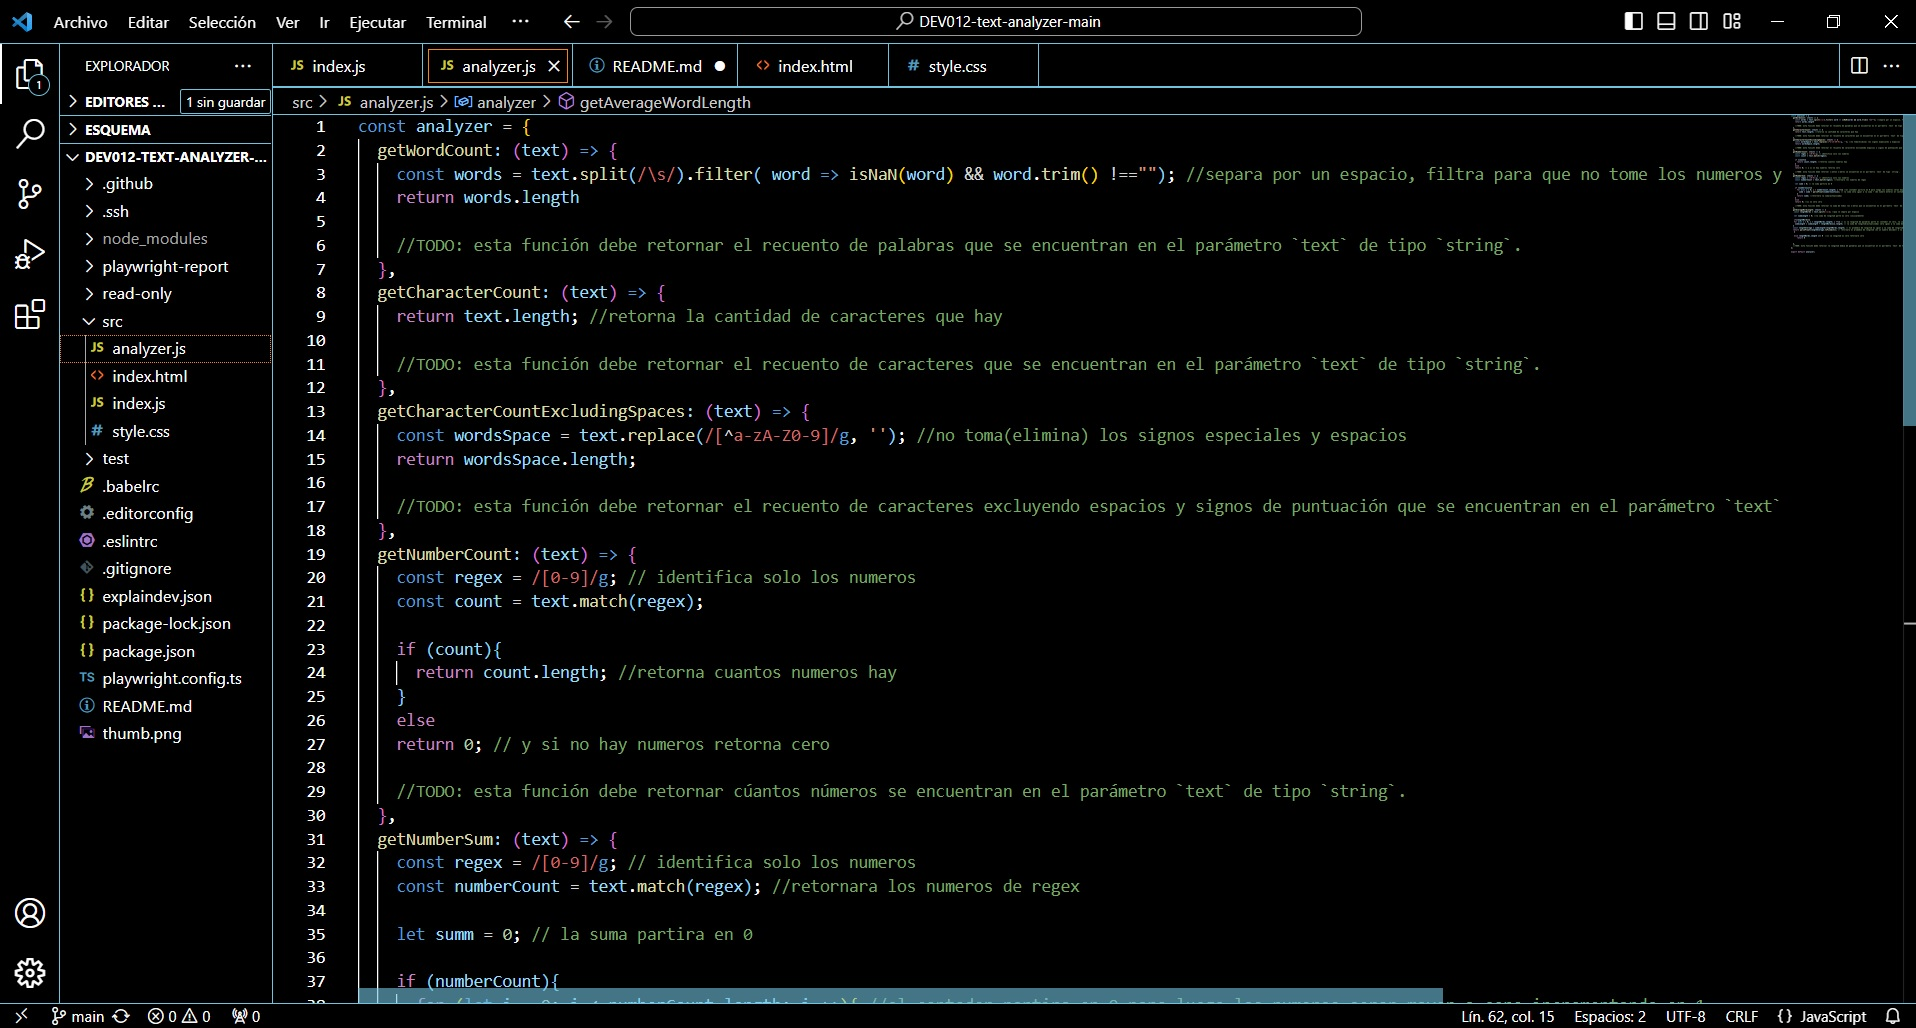
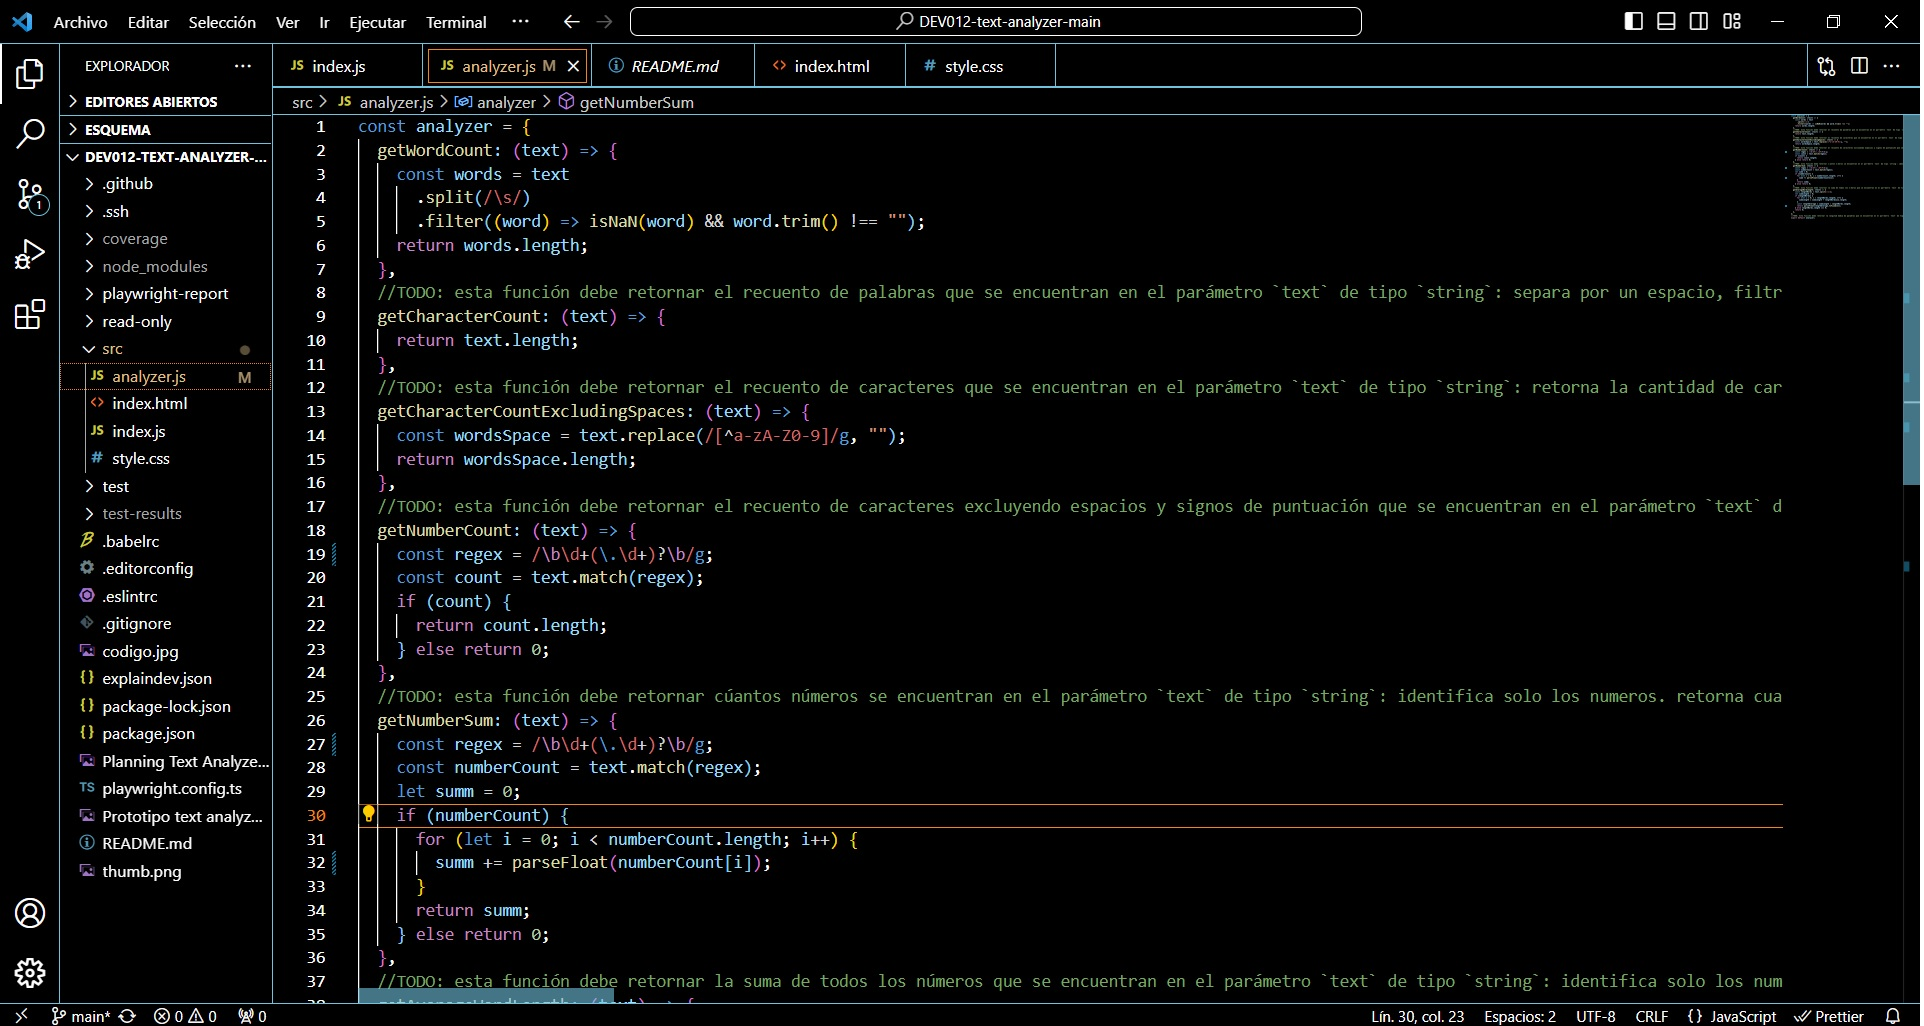
Ultimo commit

diff --git a/src/analyzer.js b/src/analyzer.js
@@ -16,7 +16,7 @@ const analyzer = {
   },
   //TODO: esta función debe retornar el recuento de caracteres excluyendo espacios y signos de puntuación que se encuentran en el parámetro `text` de tipo `string`: no toma(elimina) los signos especiales y espacios
   getNumberCount: (text) => {
-    const regex = /[0-9]/g;
+    const regex = /\b\d+(\.\d+)?\b/g;
     const count = text.match(regex);
     if (count) {
       return count.length;
@@ -24,12 +24,12 @@ const analyzer = {
   },
   //TODO: esta función debe retornar cúantos números se encuentran en el parámetro `text` de tipo `string`: identifica solo los numeros. retorna cuantos numeros hay. y si no hay numeros retorna cero
   getNumberSum: (text) => {
-    const regex = /[0-9]/g;
+    const regex = /\b\d+(\.\d+)?\b/g;
     const numberCount = text.match(regex);
     let summ = 0;
     if (numberCount) {
       for (let i = 0; i < numberCount.length; i++) {
-        summ = summ + parseFloat(numberCount[i]);
+        summ += parseFloat(numberCount[i]);
       }
       return summ;
     } else return 0;
@@ -43,7 +43,7 @@ const analyzer = {
         summLength = summLength + lengthWords[i].length;
       }
       const lengthAverage = summLength / lengthWords.length;
-      return parseFloat(lengthAverage.toFixed(3));
+      return parseFloat(lengthAverage.toFixed(2));
     } else lengthWords.length === 0;
     return 0;
   },

diff --git a/README.md b/README.md
@@ -8,11 +8,6 @@
 * [4. Funcionalidades](#4-funcionalidades)
 * [5. Boilerplate](#5-boilerplate)
 * [6. Criterios de aceptación mínimos del proyecto](#6-criterios-de-aceptación-mínimos-del-proyecto)
-* [7. Pruebas](#7-pruebas)
-* [8. Pistas, tips y lecturas complementarias](#8-pistas-tips-y-lecturas-complementarias)
-* [9. Consideraciones para pedir tu Project Feedback](#9-consideraciones-para-pedir-tu-project-feedback)
-* [10. Objetivos de aprendizaje](#10-objetivos-de-aprendizaje)
-* [11. Funcionalidades opcionales](#11-funcionalidades-opcionales)
 
 ***
 
@@ -437,328 +432,6 @@ usuarias en el centro**
   [diseño visual](https://coda.io/d/Bootcamp-UX-Contenido_dqkqk2rV9Z2/Reglas-basicas-de-diseno-visual_suVcO)
   para diseñar la UI (interfáz gráfica)
 
-## 7. Pruebas
-
-Este proyecto cuenta con 3 conjuntos de pruebas que te ayudarán a conocer si
-cumples los criterios mínimos de aceptación.
-
-### Pruebas unitarias
-
-Una prueba unitaria es una técnica de prueba de software en la que se comprueba
-que cada componente individual de un programa o sistema funciona correctamente
-de manera aislada. En otras palabras, se prueba cada unidad de código por
-separado para asegurarse de que cumpla con los requisitos y especificaciones.
-
-Las pruebas unitarias de este proyecto ejecutarán los métodos `getWordCount`,
-`getCharacterCount`, `getCharacterCountExcludingSpaces`, `getNumbersCount`,
-`getNumbersSum` y `getAverageWordLength` con diferentes argumentos y se
-confirmará que los valores retornados sean los esperados.
-
-Puedes ejecutar estas pruebas con el comando `npm run test` como se muestra
-en la siguiente imagen:
-
-![npm run test](https://github-production-user-asset-6210df.s3.amazonaws.com/12631491/240650584-c8267968-d631-4fbb-b05f-458a970544b7.gif "npm run test")
-
-El _boilerplate_ incluye tareas que ejecutan [eslint](https://eslint.org/) y
-[htmlhint](https://github.com/yaniswang/HTMLHint) para verificar el `HTML` y
-`JavaScript` con respecto a una guías de estilos. Ambas tareas se ejecutan
-automáticamente antes de ejecutar las pruebas unitarias cuando usamos el comando
-`npm run test`. En el caso de `JavaScript` estamos usando un archivo de
-configuración de `eslint` que se llama `.eslintrc` que contiene un mínimo de
-información sobre el parser que usar (qué version de JavaScript/ECMAScript), el
-entorno (browser en este caso) y
-las [reglas recomendadas (`eslint:recommended`)](https://eslint.org/docs/rules/).
-En cuanto a reglas/guías de estilo en sí,
-usaremos las recomendaciones _por defecto_ de tanto `eslint` como `htmlhint`.
-
-### Pruebas de criterios mínimos de aceptación
-
-Estas pruebas analizarán tus archivos
-[`index.html`](src/index.html),
-[`index.js`](src/index.html),
-[`analyzer.js`](src/analyzer.js)
-y
-[`style.css`](src/style.css)
-para verificar que cumples con los
-[criterios minimos de aceptacion](#5-objetivos-de-aprendizaje-y-criterios-de-aceptación-mínimos-del-proyecto).
-Cada criterio esta relacionado con un objetivo de aprendizaje.
-
-Puedes ejecutar todas estas pruebas con el comando `npm run test:oas`
-como se muestra en la siguiente imagen:
-
-![npm run test oas](https://github-production-user-asset-6210df.s3.amazonaws.com/12631491/240650602-f0ca9170-7563-4edc-9e78-874fa012c4fd.gif "npm run test oas")
-
-Puedes ejecutar las pruebas de cada grupo de objetivos de aprendizaje de
-manera individual con los siguientes comandos:
-
-* `npm run test:oas-html`
-* `npm run test:oas-css`
-* `npm run test:oas-web-api`
-* `npm run test:oas-js`
-
-#### Pruebas end-to-end
-
-Una prueba end-to-end (E2E) es una técnica de prueba de software en la que
-se verifica el funcionamiento de todo el sistema desde el inicio hasta el
-final. En otras palabras, se prueba el flujo completo del software, simulando
-la interacción de la usuaria con la aplicación, para asegurarse de que todas
-las partes del sistema funcionan correctamente en conjunto.
-
-Puedes ejecutar estas pruebas con el comando `npm run test:e2e` como se muestra
-en la siguiente imagen:
-
-![npm run test e2e](https://github-production-user-asset-6210df.s3.amazonaws.com/12631491/240650622-a4da630e-8d39-4dd8-9fde-1a38c31a53e2.gif "npm run test e2e")
-
-### Github actions
-
-Este repositorio usa una GitHub Action para ejecutar automáticamente
-las pruebas unitarias, pruebas de criterios mínimos de aceptación y
-y pruebas end-to-end cada vez que se hagas un _push_ en la rama
-_main_ de tu repositorio.
-
-Puedes consultar el resultado de esta Github Action
-en la pestaña _Actions_ de tu repositorio en Github
-como se muestra en la siguiente imagen:
-
-![Github Action](https://github-production-user-asset-6210df.s3.amazonaws.com/12631491/240650640-a8a8ed26-6f48-4053-8b3b-7dec7e35a9f8.gif "Github Action")
-
-## 8. Pistas, tips y lecturas complementarias
-
-### Prepara tu PC para trabajar
-
-Antes de comenzar instala lo siguiente:
-
-1. [Node.js](https://nodejs.org/)
-2. [git](https://git-scm.com/download/) Si estas en Linux es muy probable que
-  ya este instalado 👀.
-  Para conocer más de git visita
-  [este enlace](https://curriculum.laboratoria.la/es/topics/scm/01-git)
-3. Un editor de código, te sugerimos [Code](https://code.visualstudio.com/)
-
-Después en [GitHub](https://github.com/):
-
-1. Crear una cuenta. Conoce más de GitHub en este
-  [link](https://curriculum.laboratoria.la/es/topics/scm/02-github/01-github)
-2. Realiza un fork de este proyecto
-3. Configura tu SSH Key  en GitHub. Puedes revisar este
-[video](https://www.youtube.com/watch?v=g0ZV-neSM7E) o
-[artículo](https://docs.github.com/es/authentication/connecting-to-github-with-ssh/generating-a-new-ssh-key-and-adding-it-to-the-ssh-agent)
-
-Luego en una [shell](https://curriculum.laboratoria.la/es/topics/shell)
-ejecuta lo siguiente. Si estas en Windows puedes usar Git Bash:
-
-1. Clona el fork en tu PC
-2. Ubica la shell en el proyecto que clonaste
-3. Instala las dependencias del proyecto con `npm install`
-4. Instala `playwright` con `npx playwright install chromium --with-deps`
-5. Para arrancar el servidor web `npm start` y dirígete a
-   `http://localhost:3000` en tu navegador.
-6. A codear se ha dicho! :rocket:
-
-### Recursos y temas relacionados
-
-Súmate al canal de Slack [#project-text-analyzer](https://claseslaboratoria.slack.com/archives/C058GP6K9NY)
-
-## 9. Consideraciones para pedir tu Project Feedback
-
-Antes de agendar tu Project Feedback con un coach, asegúrate que tu proyecto:
-
-* [ ] Cumple con todos los criterios mínimos de aceptación al ejecutar `npm run test:oas`
-* [ ] Cumple con todas las pruebas unitarias al ejecutar `npm run test`
-* [ ] Cumple con todas las pruebas _end to end_ al ejecutar `npm run test:e2e`
-* [ ] Esta libre de _errores_ de `eslint` al ejecutar `npm run test`
-* [ ] Está subido a GitHub.
-* [ ] Esta desplegado en GitHub Pages.
-* [ ] Tiene un README con la definición del producto.
-
-Recuerda que debes hacer una autoevaluación de _objetivos de aprendizaje_ y
-_life skills_ desde tu dashboard de estudiante.
-
-Si no has completado todo lo anterior, no consideramos que estás lista para
-tu sesión de Project Feedback.
-
-## 10. Objetivos de aprendizaje
-
-
-Reflexiona y luego marca los objetivos que has llegado a entender y aplicar en tu proyecto. Piensa en eso al decidir tu estrategia de trabajo.
-
-### HTML
-
-- [ ] **Uso de HTML semántico**
-
-  <details><summary>Links</summary><p>
-
-  * [HTML semántico](https://curriculum.laboratoria.la/es/topics/html/02-html5/02-semantic-html)
-  * [Semantics - MDN Web Docs Glossary](https://developer.mozilla.org/en-US/docs/Glossary/Semantics#Semantics_in_HTML)
-</p></details>
-
-### CSS
-
-- [ ] **Uso de selectores de CSS**
-
-  <details><summary>Links</summary><p>
-
-  * [Intro a CSS](https://curriculum.laboratoria.la/es/topics/css/01-css/01-intro-css)
-  * [CSS Selectors - MDN](https://developer.mozilla.org/es/docs/Web/CSS/CSS_Selectors)
-</p></details>
-
-- [ ] **Modelo de caja (box model): borde, margen, padding**
-
-  <details><summary>Links</summary><p>
-
-  * [Box Model & Display](https://curriculum.laboratoria.la/es/topics/css/01-css/02-boxmodel-and-display)
-  * [The box model - MDN](https://developer.mozilla.org/en-US/docs/Learn/CSS/Building_blocks/The_box_model)
-  * [Introduction to the CSS box model - MDN](https://developer.mozilla.org/en-US/docs/Web/CSS/CSS_Box_Model/Introduction_to_the_CSS_box_model)
-  * [CSS display - MDN](https://developer.mozilla.org/pt-BR/docs/Web/CSS/display)
-  * [display - CSS Tricks](https://css-tricks.com/almanac/properties/d/display/)
-</p></details>
-
-### Web APIs
-
-- [ ] **Uso de selectores del DOM**
-
-  <details><summary>Links</summary><p>
-
-  * [Manipulación del DOM](https://curriculum.laboratoria.la/es/topics/browser/02-dom/03-1-dom-methods-selection)
-  * [Introducción al DOM - MDN](https://developer.mozilla.org/es/docs/Web/API/Document_Object_Model/Introduction)
-  * [Localizando elementos DOM usando selectores - MDN](https://developer.mozilla.org/es/docs/Web/API/Document_object_model/Locating_DOM_elements_using_selectors)
-</p></details>
-
-- [ ] **Manejo de eventos del DOM (listeners, propagación, delegación)**
-
-  <details><summary>Links</summary><p>
-
-  * [Introducción a eventos - MDN](https://developer.mozilla.org/es/docs/Learn/JavaScript/Building_blocks/Events)
-  * [EventTarget.addEventListener() - MDN](https://developer.mozilla.org/es/docs/Web/API/EventTarget/addEventListener)
-  * [EventTarget.removeEventListener() - MDN](https://developer.mozilla.org/es/docs/Web/API/EventTarget/removeEventListener)
-  * [El objeto Event](https://developer.mozilla.org/es/docs/Web/API/Event)
-</p></details>
-
-- [ ] **Manipulación dinámica del DOM**
-
-  <details><summary>Links</summary><p>
-
-  * [Introducción al DOM](https://developer.mozilla.org/es/docs/Web/API/Document_Object_Model/Introduction)
-  * [Node.appendChild() - MDN](https://developer.mozilla.org/es/docs/Web/API/Node/appendChild)
-  * [Document.createElement() - MDN](https://developer.mozilla.org/es/docs/Web/API/Document/createElement)
-  * [Document.createTextNode()](https://developer.mozilla.org/es/docs/Web/API/Document/createTextNode)
-  * [Element.innerHTML - MDN](https://developer.mozilla.org/es/docs/Web/API/Element/innerHTML)
-  * [Node.textContent - MDN](https://developer.mozilla.org/es/docs/Web/API/Node/textContent)
-</p></details>
-
-### JavaScript
-
-- [ ] **Tipos de datos primitivos**
-
-  <details><summary>Links</summary><p>
-
-  * [Valores primitivos - MDN](https://developer.mozilla.org/es/docs/Web/JavaScript/Data_structures#valores_primitivos)
-</p></details>
-
-- [ ] **Strings (cadenas de caracteres)**
-
-  <details><summary>Links</summary><p>
-
-  * [Strings](https://curriculum.laboratoria.la/es/topics/javascript/06-strings)
-  * [String — Cadena de caracteres - MDN](https://developer.mozilla.org/es/docs/Web/JavaScript/Reference/Global_Objects/String)
-</p></details>
-
-- [ ] **Variables (declaración, asignación, ámbito)**
-
-  <details><summary>Links</summary><p>
-
-  * [Valores, tipos de datos y operadores](https://curriculum.laboratoria.la/es/topics/javascript/01-basics/01-values-variables-and-types)
-  * [Variables](https://curriculum.laboratoria.la/es/topics/javascript/01-basics/02-variables)
-</p></details>
-
-- [ ] **Uso de condicionales (if-else, switch, operador ternario, lógica booleana)**
-
-  <details><summary>Links</summary><p>
-
-  * [Estructuras condicionales y repetitivas](https://curriculum.laboratoria.la/es/topics/javascript/02-flow-control/01-conditionals-and-loops)
-  * [Tomando decisiones en tu código — condicionales - MDN](https://developer.mozilla.org/es/docs/Learn/JavaScript/Building_blocks/conditionals)
-</p></details>
-
-- [ ] **Uso de bucles/ciclos (while, for, for..of)**
-
-  <details><summary>Links</summary><p>
-
-  * [Bucles (Loops)](https://curriculum.laboratoria.la/es/topics/javascript/02-flow-control/02-loops)
-  * [Bucles e iteración - MDN](https://developer.mozilla.org/es/docs/Web/JavaScript/Guide/Loops_and_iteration)
-</p></details>
-
-- [ ] **Funciones (params, args, return)**
-
-  <details><summary>Links</summary><p>
-
-  * [Funciones (control de flujo)](https://curriculum.laboratoria.la/es/topics/javascript/02-flow-control/03-functions)
-  * [Funciones clásicas](https://curriculum.laboratoria.la/es/topics/javascript/03-functions/01-classic)
-  * [Arrow Functions](https://curriculum.laboratoria.la/es/topics/javascript/03-functions/02-arrow)
-  * [Funciones — bloques de código reutilizables - MDN](https://developer.mozilla.org/es/docs/Learn/JavaScript/Building_blocks/Functions)
-</p></details>
-
-- [ ] **Pruebas unitarias (unit tests)**
-
-  <details><summary>Links</summary><p>
-
-  * [Empezando con Jest - Documentación oficial](https://jestjs.io/docs/es-ES/getting-started)
-</p></details>
-
-- [ ] **Módulos de ECMAScript (ES Modules)**
-
-  <details><summary>Links</summary><p>
-
-  * [import - MDN](https://developer.mozilla.org/es/docs/Web/JavaScript/Reference/Statements/import)
-  * [export - MDN](https://developer.mozilla.org/es/docs/Web/JavaScript/Reference/Statements/export)
-</p></details>
-
-- [ ] **Uso de linter (ESLINT)**
-
-- [ ] **Uso de identificadores descriptivos (Nomenclatura y Semántica)**
-
-### Control de Versiones (Git y GitHub)
-
-- [ ] **Git: Instalación y configuración**
-
-- [ ] **Git: Control de versiones con git (init, clone, add, commit, status, push, pull, remote)**
-
-- [ ] **GitHub: Creación de cuenta y repos, configuración de llaves SSH**
-
-- [ ] **GitHub: Despliegue con GitHub Pages**
-
-  <details><summary>Links</summary><p>
-
-  * [Sitio oficial de GitHub Pages](https://pages.github.com/)
-</p></details>
-
-### Centrado en el usuario
-
-- [ ] **Diseñar y desarrollar un producto o servicio poniendo a las usuarias en el centro**
-
-### Diseño de producto
-
-- [ ] **Diseñar en distintos niveles de fidelidad**
-
-- [ ] **Seguir los principios básicos de diseño visual**
-
-## 11. Funcionalidades opcionales
-
-Si terminaste con todas las [funcionalidades requeridas](#3-funcionalidades),
-intenta implementar las siguientes funcionalidades opcionales para
-profundizar en los objetivos de aprendizaje del proyecto:
-
-* Que el recuento de palabras y caracteres sea 0 para una entrada de
-  texto vacía.
-* Que el recuento de palabras y caracteres sea 0 para una entrada de
-  texto con solo espacios.
-* Que el recuento de palabras y caracteres sea 0 para una entrada de
-  texto con solo caracteres de puntuación.
-
-Puedes habilitar las pruebas unitarias y en _end to end_ de estos casos
-en los archivos [test/analyzer.spec.js](test/analyzer.spec.js) y
-[read-only/test/e2e/app.spec.js](read-only/test/e2e/app.spec.js).
-También tendrás que ajustar las pruebas ya existentes de las
-funcionalidades requeridas.
 
 ------------------------------------------------------------
 
@@ -767,14 +440,18 @@ El proyecto se comenzo identificando las distintas actividades que se debian rea
 
 <img src="./Planning Text Analyzer.jpg" />
 *Planning del proyecto en el Sprint final.
-
+<br>
 Ademas se creo un prototipo con el fin de identificar el interfaz visual del proyecto que fuera lo mas amigable, legible y entendible para el usuario del proyecto, para que asi la funcionalidad del proyecto no se viera afectada.
 
 
 <img src="./Prototipo text analyzer.jpg" />
 *Prototipo del Analizador de Texto.
-
-Con todo esto se realizo el codigo del proyecto en Visual Studio Code, siguiendo cada una de las especificaciones requeridas del proyecto.
+<br>
+Con todo esto se realizo el codigo del proyecto en Visual Studio Code, siguiendo cada una de las especificaciones requeridas señaladas anteriormente.
 
 <img src="./codigo.jpg" />
 *Codigos en Visual Studio Code.
+<br>
+Finalmente el proyecto se concreto con los parametros exigidos utilizando 4 sprints.
+<img src="./web text analyzer.jpg" />
+*Proyecto Analizador de texto finalizado.
